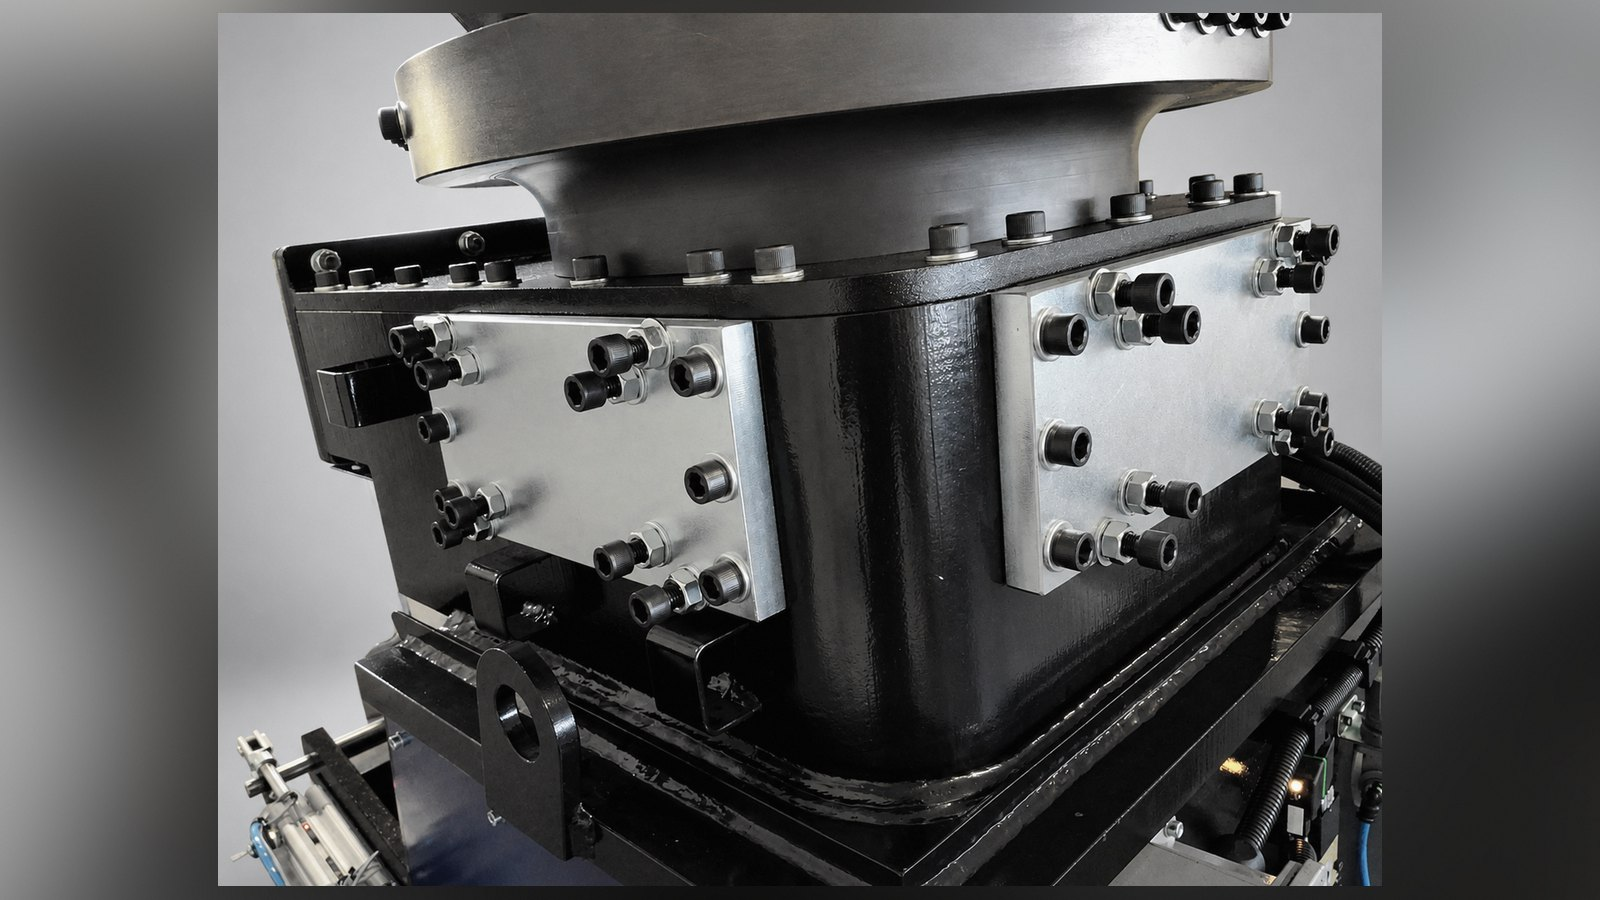
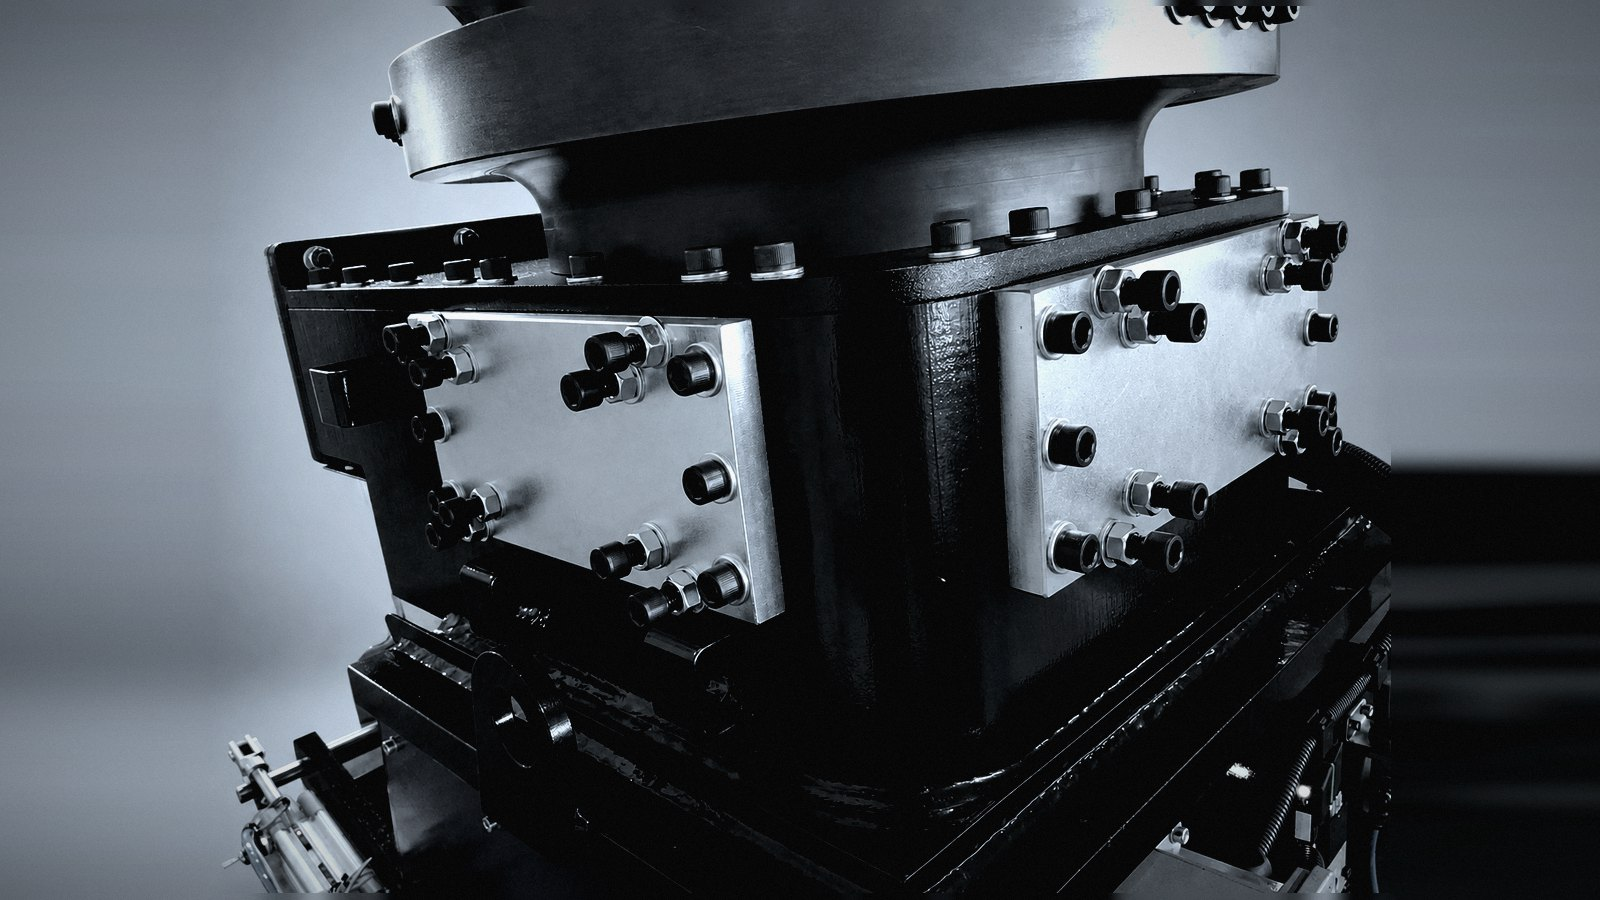
Trituratori: le fotografie prendono la lingua della testata
Gli scatti di prodotto — chiari, su fondo grigio uniforme, la macchina
piccola al centro fra due bande — accanto alla fotografia della sezione
"Sistemi" sembravano ritagli di catalogo incollati sul sito. Ora parlano
la stessa lingua di quella: quasi monocromi, acciaio freddo, neri pieni,
grana, fotogramma occupato fino ai bordi.

Soggetto, geometria e composizione non si toccano. Cambiano quattro cose:

- il taglio. Il fondo da studio e' liscio, quello che se ne discosta e' la
  macchina: si misura il suo ingombro e si taglia li'. La figura passa dal
  riempire meta' fotogramma a occuparne il 70-98%;
- il riempimento. Gli originali sono 4:3 e i bordi della figura si
  allungano fino ai lati, invece di lasciare due bande sfocate;
- la resa. Colore al 13% con dominante fredda, medi scuriti, neri aperti;
- la vignettatura, che spegne i bordi. E' quella che fa emergere la
  macchina dal buio e che, per giunta, nasconde l'attacco del riempimento.

Sul solo scatto di reparto — pallet, martello, cartone in campo — il
riquadro e' scritto a mano: il fondo li' non aiuta a trovare la macchina.

diff --git a/README.md b/README.md
@@ -129,18 +129,29 @@ I testi alternativi delle nuove fotografie vanno aggiunti anche al dizionario in
 
 Sono le uniche immagini del sito servite da qui e non dal repo dei contenuti:
 stanno in `assets/img/trituratori/`, ricavate dagli scatti in posa del
-committente. Ognuna e' portata a 1600x900.
+committente e portate a 1600x900.
 
-Gli originali sono 4:3 e la fascia e' 16:9: ritagliarli avrebbe tolto la
-macchina, che nei trituratori ad asse verticale sta tutta in altezza. Quindi la
-figura entra intera al 97% e il fondo lo riempie una copia di se' stessa
-allargata e sfocata forte, **a luminosita' invariata**: sul grigio da studio
-l'attacco non si vede. Scurire il fondo, come si fa di solito, disegnava due
-bande evidenti ai lati.
+Il riferimento e' `assets/img/trasmissione-16x9.jpg`, la fotografia della
+sezione "Sistemi": quasi monocroma, acciaio freddo, neri pieni, grana fine,
+fotogramma occupato fino ai bordi. Gli scatti di prodotto, chiari e su fondo
+grigio uniforme, accanto a quella sembravano ritagli di catalogo incollati sul
+sito. Il trattamento li porta alla stessa lingua, **senza toccare soggetto,
+geometria o composizione**: solo taglio, luce, colore e materia.
 
-Sul colore la mano e' leggera — solo una velatura di grana al 3% — perche' gli
-scatti sono gia' coerenti fra loro. Il trattamento pesante serviva quando le
-fotografie erano riprese di reparto con luci diverse.
+1. **Taglio.** Il fondo da studio e' liscio, quello che se ne discosta e' la
+   macchina: si misura il suo ingombro e si taglia li'. Cosi' la figura passa
+   dal riempire meta' fotogramma a occuparne il 70-98%. Sugli scatti di reparto
+   il fondo non aiuta e il riquadro e' scritto a mano in `TAGLI`.
+2. **Riempimento.** Gli originali sono 4:3: i bordi della figura si allungano
+   fino ai lati della tela invece di lasciare bande.
+3. **Resa.** Colore all'13% con dominante fredda, curva che scurisce i medi
+   (gamma 1,34) e apre i neri, contrasto 1,11.
+4. **Vignettatura** decisa, che spegne i bordi: e' quella che fa emergere la
+   macchina dal buio e nasconde l'attacco del riempimento.
+5. **Grana** al 6% su tutto, che rimette insieme figura e fondo.
+
+Lo script sta in `/tmp` e non nel repo: le immagini sono file finiti, si
+sostituiscono mettendo un 16:9 con lo stesso nome.
 
 Lo script che le ha prodotte non e' nel repo: sono file finiti, si sostituiscono
 mettendo un'immagine 16:9 con lo stesso nome.
